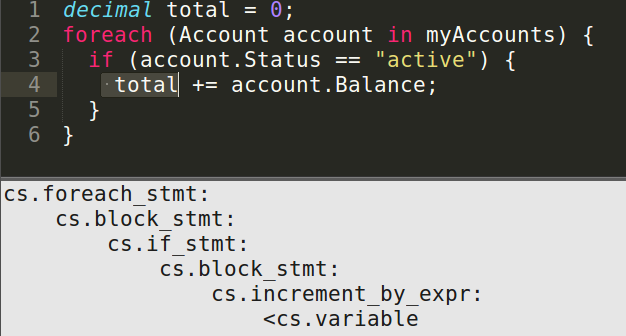
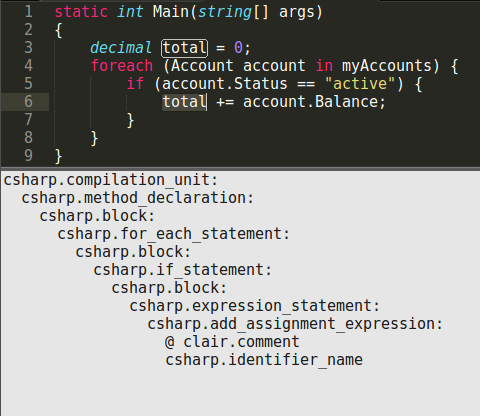
Update csharp query generation.

Changed region(s): [[0.0, 0.0, 1.0, 0.9821], [0.0938, 0.0, 0.9688, 0.3571], [0.125, 0.2976, 0.1562, 0.3571]]

diff --git a/docs/clql.md b/docs/clql.md
@@ -349,11 +349,11 @@ The CLQL to match this pattern should find all variables that are declared befor
 
 ![C# example Generation](img/cs_decl.png)
 
-![C# example Generation](img/cs_inc.png)
-
 Note: the `csharp.variable_declarator` has the `identifier_token` field that can be used to identify the `total` variable, but it spans the whole thrid line, so the whole line must be selected to generate that fact. Since other elements are within that line, many extra facts are generated. This is largely a property of the C# parser used by the underlying [lexicon](lexicons.md).
 
-The generated code can be turned into a working query by combining the above queries under the same scope, removing extraneous facts, and using a CLQL variable to ensure that the `csharp.variable` facts are refering to the same variable:
+![C# example Generation](img/cs_inc.png)
+
+The generated code can be turned into a working query by combining the above queries under the same scope, removing extraneous facts, and using a CLQL variable to ensure that the `csharp.identifier_name` and `csharp.variable_declarator` facts refer to the same variable:
 
 ```
 csharp.method_declaration:
